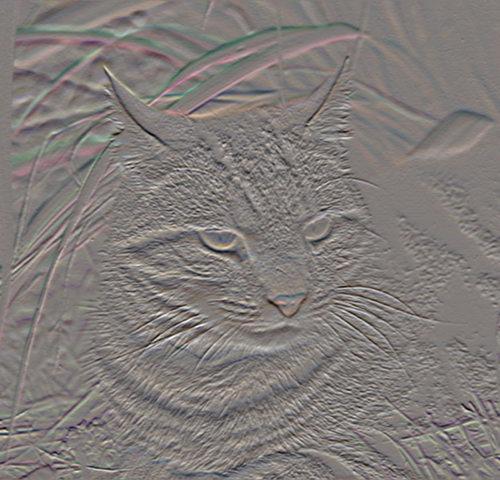
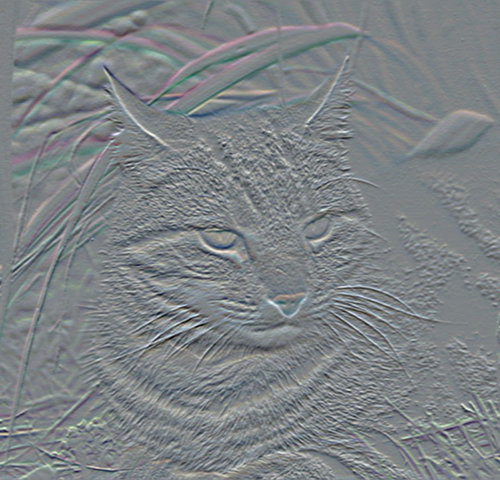
started with seperable kernel

diff --git a/ex1/src/main/java/image/processing/convolution/SeparableConvolution.java b/ex1/src/main/java/image/processing/convolution/SeparableConvolution.java
@@ -14,9 +14,44 @@ public abstract class SeparableConvolution extends Convolution {
       throw new IllegalArgumentException("Kernel cannot be a matrix for separable convolution");
     }
 
+    Image<RGBA> halfBaked = new Image<RGBA>(img.cols(), img.rows(), new RGBA(0f, 0f, 0f));
     Image<RGBA> outImg = new Image<RGBA>(img.cols(), img.rows(), new RGBA(0f, 0f, 0f));
 
     //TODO: Blatt 2, Aufgabe 1 c)
+
+    // apply to rows
+    for (int y = 0; y < img.rows(); y++) {
+      for (int x = 0; x < img.rows(); x++) {
+
+        RGBA newColor = new RGBA(0, 0, 0);
+
+        for (int i = 0; i < kernel.cols(); i++) {
+          float multiplier = kernel.get(i);
+          RGBA currentColor = img.get(x + i, y);
+          currentColor = currentColor.times(multiplier);
+          newColor = newColor.plus(currentColor);
+        }
+
+        halfBaked.set(x, y, newColor);
+      }
+    }
+
+    // apply to cols
+    for (int x = 0; x < img.rows(); x++) {
+      for (int y = 0; y < img.rows(); y++) {
+
+        RGBA newColor = new RGBA(0, 0, 0);
+
+        for (int i = 0; i < kernel.cols(); i++) {
+          float multiplier = kernel.get(i);
+          RGBA currentColor = img.get(x, y + i);
+          currentColor = currentColor.times(multiplier);
+          newColor = newColor.plus(currentColor);
+        }
+
+        outImg.set(x, y, newColor);
+      }
+    }
 
     return outImg;
   }

diff --git a/ex1/src/main/java/image/processing/convolution/GaussSeparableConvolution.java b/ex1/src/main/java/image/processing/convolution/GaussSeparableConvolution.java
@@ -13,6 +13,12 @@ public class GaussSeparableConvolution extends SeparableConvolution {
     this.sigma = sigma;
   }
 
+  private float gauss(int x) {
+    double fraction = 1 / (sigma * Math.sqrt(2 * Math.PI));
+    double exponent = -1 * Math.pow(x, 2) / 2 * Math.pow(sigma, 2);
+    return (float) (fraction * Math.exp(exponent));
+  }
+
   @Override
   public Image<Float> getKernel() {
     if (this.kernel != null) {
@@ -22,6 +28,18 @@ public class GaussSeparableConvolution extends SeparableConvolution {
     Image<Float> kernel = new Image<Float>(size, 1, 0.0f);
 
     //TODO: Blatt 2, Aufgabe 1 c)
+    float[] vals = new float[size];
+    float sum = 0;
+
+    for (int i = 0; i < size; i++) {
+      float g = gauss(i);
+      vals[i] = g;
+      sum += g;
+    }
+
+    for (int i = 0; i < size; i++) {
+      kernel.set(i, vals[i] / sum);
+    }
 
     this.kernel = kernel;
     return kernel;
